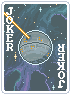
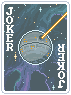
Add Printer

Changed region(s): [[0.5352, 0.1263, 0.9577, 0.4421], [0.0563, 0.1263, 0.4507, 0.4421], [0.4789, 0.3789, 0.507, 0.4]]

diff --git a/web/addjokers.js b/web/addjokers.js
@@ -431,6 +431,14 @@ let jokers = [
     image_url: "img/j/infrastructure.png",
     rarity: "Common"
   },
+  {
+    name: "Printer",
+    text: [
+      "When {C:attention}Blind{} is selected, add a {C:attention}7{} of {C:Hearts}Hearts{} to deck",
+    ],
+    image_url: "img/j/printer.png",
+    rarity: "Common"
+  },
 
   // {
   //   name: "",
